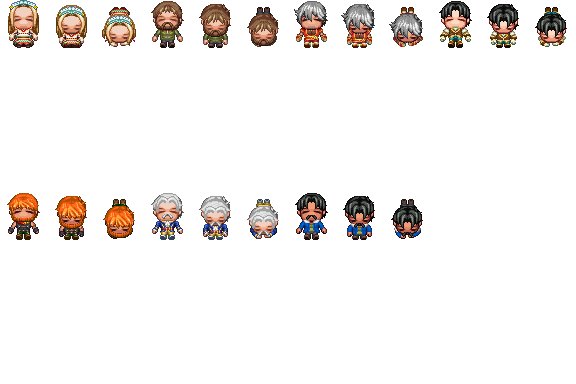
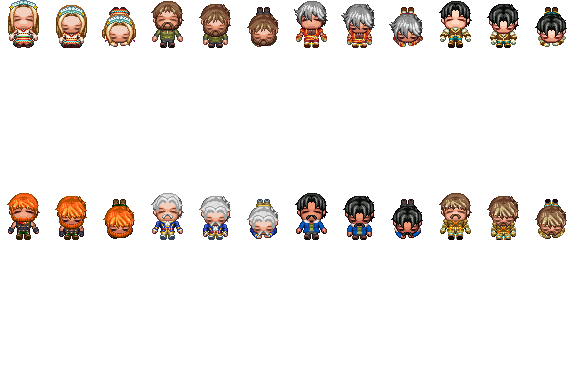
Mr Gotobed gets a face, ready for when he needs one
Gen_People17 7, the last cell on that sheet: brown hair, a walrus
moustache, his old adventuring leathers. FACES["Mr Gotobed"] points at
it; no event uses it yet, so no map changes.

Claude-Session: https://claude.ai/code/session_01DT7LL7HdDHkfFQ7pwiGzCu

Changed region(s): [[0.75, 0.5, 1.0, 0.625]]

diff --git a/build/art.py b/build/art.py
@@ -374,6 +374,10 @@ SHEETS = {
         (5, "major-royce.json"),        # the Glass Fort
         # Saul Pennock, who wore the Merchant's face (Mike, 3 Nov).
         (6, "saul-pennock.json"),       # never had a better crew. Hm.
+        # Mr Gotobed of Much Pottering, drawn ahead of need (Mike, 3 Nov): he
+        # is only cards and swords on his wall so far. Brown, a walrus
+        # moustache, and the old adventuring leathers he still fits.
+        (7, "mr-gotobed.json"),         # knocked on the wrong door
     ],
 }
 

diff --git a/build/story.py b/build/story.py
@@ -461,6 +461,8 @@ FACES = {
     # her mother, and the three of the village who are in her letters.
     "Effie": ("Gen_People14", 7),
     "Mrs Gotobed": ("Gen_People15", 0),
+    # Drawn before he has a line (Mike, 3 Nov), so he is ready if he needs one.
+    "Mr Gotobed": ("Gen_People17", 7),
     "Mr Dibble": ("Gen_People15", 1),
     "Mrs Throssell": ("Gen_People15", 2),
     "Mr Cobley": ("Gen_People15", 3),

diff --git a/CLAUDE.md b/CLAUDE.md
@@ -1307,7 +1307,7 @@ of the art, so the data build never needs the untracked stock generator parts.
 | `Gen_People14` | Cuthbert Spence | Ambrosine Quill | Lorrimer | Maud | Spare | Cotter | the Courier, Effie |
 | `Gen_People15` | Mrs Gotobed | Mr Dibble | Mrs Throssell | Mr Cobley | Thalion | Aelwen | Elowen, Calder |
 | `Gen_People16` | Ninian | the Copyist | Mr Pilbeam | the smithy's Apprentice | the Committee Clerk | Mrs Budge | the Old Man, the Child |
-| `Gen_People17` | the Hithermost villager | the Turnip's Regular | the man having a day off | Fellow Grice | Ned Scarrow | Major Royce, Saul Pennock |
+| `Gen_People17` | the Hithermost villager | the Turnip's Regular | the man having a day off | Fellow Grice | Ned Scarrow | Major Royce, Saul Pennock, Mr Gotobed |
 
 **The Sable Hart's five wear a borrowed hood.** The male body has no hood
 among its parts, so `art.py`'s `BORROWED` lends the female `AccB p10` riding
@@ -1327,7 +1327,8 @@ sprite from the same file, for every human who spoke without one;
 companion quests'; Olde Evermore's six elves of the playtest round's P3 are
 `Gen_People15` 4-7 and `Gen_People16` 0-1; `Gen_People16` 2-7 and
 `Gen_People17` 0-6 are faces that used to be shared (Mike, 3 Nov 2026 - see
-`story.FACES`), and **the next face goes in `Gen_People17` 7**, the last on that sheet. The
+`story.FACES`); 7 is Mr Gotobed, drawn before he has any lines, so that sheet is
+full and **the next face opens `Gen_People18`**. The
 apprentice keeps Ott's brass goggles, which only the male body has: `art.py`'s
 `BORROWED` lends them to the female body as `AccB p11`. Restwell's third speaking part, Dr Pike,
 **shares `SF_Actor3:6`** instead - `story.FACES` records every such share and

diff --git a/build/API.md b/build/API.md
@@ -497,7 +497,7 @@ recruit(event_id, actor_id, name, x, y, sheet, index, *, pitch, accept, decline,
 roster_amendment(companions=None, clerk='Clerk')     A dismissal form. Lets the player swap a companion out without
 ```
 
-### `FACES` — who already has a face (221)
+### `FACES` — who already has a face (222)
 
 The key is what `say()` prints as the speaker's name. Adding somebody here is how a new character gets a portrait; sharing an existing sheet and index is normal and the reasons are commented in the module.
 
@@ -555,9 +555,9 @@ Fellow Blunt          Mr Pennock            Professor Mott        Dr Furze
 Mother Grizel         Dr Hobday             Nan Gilly             Mr Spence
 Ambrosine             Lorrimer              Maud                  Miss Fettle
 Cotter                Courier               Effie                 Mrs Gotobed
-Mr Dibble             Mrs Throssell         Mr Cobley             Thalion
-Aelwen                Elowen                Calder                Ninian
-The Copyist
+Mr Gotobed            Mr Dibble             Mrs Throssell         Mr Cobley
+Thalion               Aelwen                Elowen                Calder
+Ninian                The Copyist
 ```
 
 
